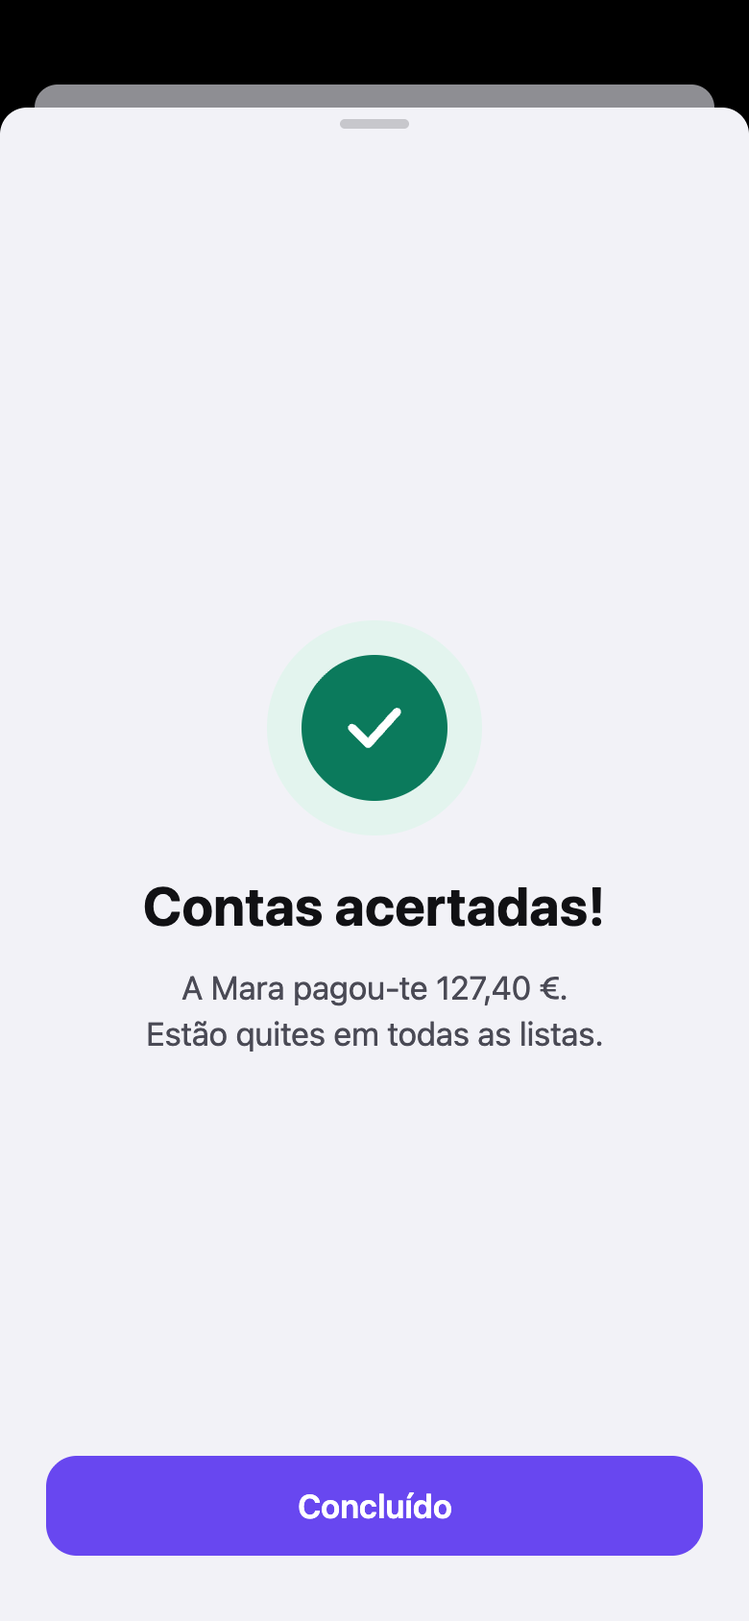
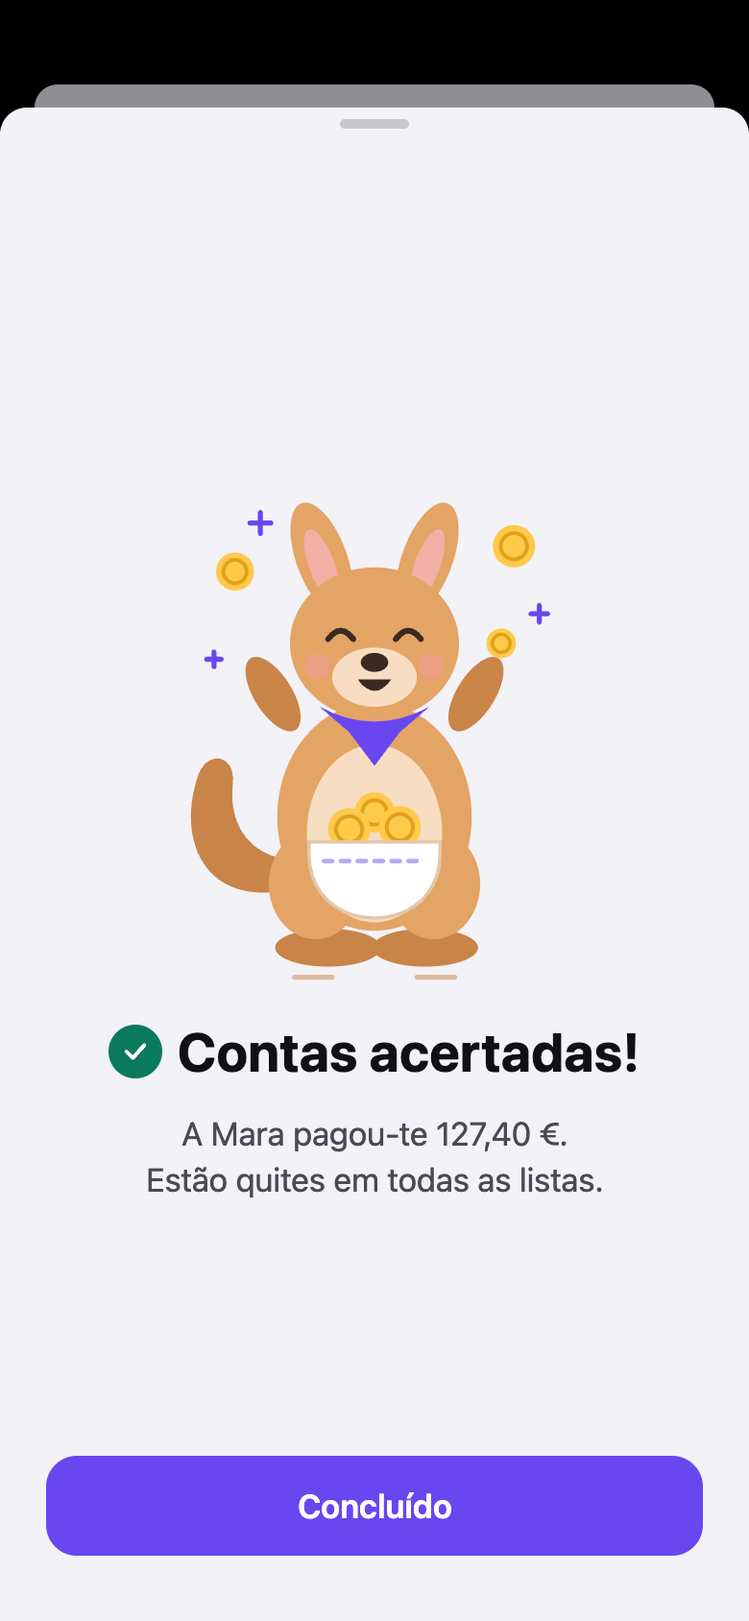
Update mockups with the Guru mascot

Changed region(s): [[0.1538, 0.3081, 0.8615, 0.7393], [0.2769, 0.3389, 0.3385, 0.3697]]

diff --git a/design/screens/Guru.dc.html b/design/screens/Guru.dc.html
@@ -1,0 +1,144 @@
+<!doctype html>
+<html lang="pt-PT">
+<head>
+<meta charset="utf-8">
+<title>Guru — mascote</title>
+<script src="./support.js"></script>
+</head>
+<body>
+<x-dc>
+<helmet>
+<style>
+body{margin:0}
+</style>
+</helmet>
+<div style="width: {{w}}; height: {{h}}; display: flex; align-items: center; justify-content: center; font-family: -apple-system, BlinkMacSystemFont, 'SF Pro Text', 'Helvetica Neue', sans-serif; color: #111114">
+  <svg width="{{w}}" height="{{h}}" viewBox="{{viewBox}}" role="img" aria-label="{{label}}">
+    <sc-if value="{{flying}}" hint-placeholder-val="{{ false }}">
+      <g>
+        <circle cx="34" cy="46" r="9" fill="#FFC94A"></circle><circle cx="34" cy="46" r="5.5" fill="none" stroke="#E0A21A" stroke-width="1.8"></circle>
+        <circle cx="166" cy="34" r="10" fill="#FFC94A"></circle><circle cx="166" cy="34" r="6.2" fill="none" stroke="#E0A21A" stroke-width="1.8"></circle>
+        <circle cx="160" cy="80" r="7" fill="#FFC94A"></circle><circle cx="160" cy="80" r="4.2" fill="none" stroke="#E0A21A" stroke-width="1.6"></circle>
+        <path d="M46 18v10M41 23h10M178 62v8M174 66h8M24 84v7M20.5 87.5h7" stroke="#6847F0" stroke-width="2.4" stroke-linecap="round"></path>
+      </g>
+    </sc-if>
+    <sc-if value="{{zzz}}" hint-placeholder-val="{{ false }}">
+      <g fill="#6847F0" font-family="-apple-system, sans-serif" font-weight="700">
+        <text x="146" y="44" font-size="18">z</text>
+        <text x="160" y="26" font-size="13">z</text>
+        <text x="171" y="12" font-size="10">z</text>
+      </g>
+    </sc-if>
+
+    <path d="M62 196C22 206 6 176 16 144C20 130 34 132 33 146C30 170 46 186 72 182Z" fill="{{c.furDark}}"></path>
+    <ellipse cx="78" cy="224" rx="25" ry="9" fill="{{c.furDark}}"></ellipse>
+    <ellipse cx="124" cy="224" rx="25" ry="9" fill="{{c.furDark}}"></ellipse>
+    <ellipse cx="72" cy="194" rx="22" ry="26" fill="{{c.fur}}"></ellipse>
+    <ellipse cx="128" cy="194" rx="22" ry="26" fill="{{c.fur}}"></ellipse>
+    <ellipse cx="100" cy="162" rx="46" ry="54" fill="{{c.fur}}"></ellipse>
+    <ellipse cx="100" cy="170" rx="32" ry="42" fill="{{c.belly}}"></ellipse>
+
+    <sc-if value="{{coins}}" hint-placeholder-val="{{ true }}">
+      <g>
+        <circle cx="100" cy="160" r="9.5" fill="#FFC94A"></circle><circle cx="100" cy="160" r="5.8" fill="none" stroke="#E0A21A" stroke-width="1.8"></circle>
+        <circle cx="88" cy="168" r="10" fill="#FFC94A"></circle><circle cx="88" cy="168" r="6.2" fill="none" stroke="#E0A21A" stroke-width="1.8"></circle>
+        <circle cx="112" cy="167" r="10" fill="#FFC94A"></circle><circle cx="112" cy="167" r="6.2" fill="none" stroke="#E0A21A" stroke-width="1.8"></circle>
+      </g>
+    </sc-if>
+    <path d="M69 174h62v6c0 18-13.5 30-31 30s-31-12-31-30z" fill="{{c.pouch}}" stroke="{{c.pouchEdge}}" stroke-width="1.6"></path>
+    <path d="M76 183h48" stroke="#B9A8F5" stroke-width="2.2" stroke-dasharray="4 4" stroke-linecap="round"></path>
+
+    <sc-if value="{{leftHold}}" hint-placeholder-val="{{ true }}">
+      <ellipse cx="68" cy="166" rx="9" ry="15" transform="rotate(-28 68 166)" fill="{{c.furDark}}"></ellipse>
+    </sc-if>
+    <sc-if value="{{leftUp}}" hint-placeholder-val="{{ false }}">
+      <ellipse cx="52" cy="104" rx="9" ry="20" transform="rotate(-32 52 104)" fill="{{c.furDark}}"></ellipse>
+    </sc-if>
+    <sc-if value="{{rightHold}}" hint-placeholder-val="{{ true }}">
+      <ellipse cx="132" cy="166" rx="9" ry="15" transform="rotate(28 132 166)" fill="{{c.furDark}}"></ellipse>
+    </sc-if>
+    <sc-if value="{{rightUp}}" hint-placeholder-val="{{ false }}">
+      <ellipse cx="148" cy="104" rx="9" ry="20" transform="rotate(32 148 104)" fill="{{c.furDark}}"></ellipse>
+    </sc-if>
+
+    <path d="M74 110Q100 124 126 110L112 122L100 138L88 122Z" fill="#6847F0"></path>
+
+    <g transform="{{headTilt}}">
+      <ellipse cx="75" cy="40" rx="12" ry="28" transform="rotate(-20 75 40)" fill="{{c.fur}}"></ellipse>
+      <ellipse cx="75" cy="43" rx="6" ry="18" transform="rotate(-20 75 43)" fill="{{c.earInner}}"></ellipse>
+      <ellipse cx="125" cy="40" rx="12" ry="28" transform="rotate(20 125 40)" fill="{{c.fur}}"></ellipse>
+      <ellipse cx="125" cy="43" rx="6" ry="18" transform="rotate(20 125 43)" fill="{{c.earInner}}"></ellipse>
+      <ellipse cx="100" cy="80" rx="40" ry="36" fill="{{c.fur}}"></ellipse>
+      <ellipse cx="100" cy="96" rx="20" ry="14" fill="{{c.belly}}"></ellipse>
+      <circle cx="73" cy="91" r="6" fill="#F49C9C" opacity="0.55"></circle>
+      <circle cx="127" cy="91" r="6" fill="#F49C9C" opacity="0.55"></circle>
+      <ellipse cx="100" cy="89" rx="6.5" ry="4.5" fill="#3A2A22"></ellipse>
+
+      <sc-if value="{{eyesOpen}}" hint-placeholder-val="{{ true }}">
+        <g>
+          <circle cx="84" cy="{{pupilY}}" r="5.5" fill="#3A2A22"></circle>
+          <circle cx="116" cy="{{pupilY}}" r="5.5" fill="#3A2A22"></circle>
+          <circle cx="86" cy="{{glintY}}" r="1.8" fill="#FFFFFF"></circle>
+          <circle cx="118" cy="{{glintY}}" r="1.8" fill="#FFFFFF"></circle>
+        </g>
+      </sc-if>
+      <sc-if value="{{eyesHappy}}" hint-placeholder-val="{{ false }}">
+        <path d="M78 78Q84 70 90 78M110 78Q116 70 122 78" stroke="#3A2A22" stroke-width="2.8" stroke-linecap="round" fill="none"></path>
+      </sc-if>
+      <sc-if value="{{eyesClosed}}" hint-placeholder-val="{{ false }}">
+        <path d="M78 76Q84 82 90 76M110 76Q116 82 122 76" stroke="#3A2A22" stroke-width="2.6" stroke-linecap="round" fill="none"></path>
+      </sc-if>
+
+      <sc-if value="{{smile}}" hint-placeholder-val="{{ true }}">
+        <path d="M93 98Q100 105 107 98" stroke="#3A2A22" stroke-width="2.2" stroke-linecap="round" fill="none"></path>
+      </sc-if>
+      <sc-if value="{{bigSmile}}" hint-placeholder-val="{{ false }}">
+        <path d="M92 97Q100 108 108 97Z" fill="#3A2A22"></path>
+      </sc-if>
+      <sc-if value="{{oMouth}}" hint-placeholder-val="{{ false }}">
+        <ellipse cx="100" cy="100" rx="3" ry="3.6" fill="#3A2A22"></ellipse>
+      </sc-if>
+    </g>
+
+    <sc-if value="{{jump}}" hint-placeholder-val="{{ false }}">
+      <path d="M62 238h18M120 238h18" stroke="{{c.furDark}}" stroke-width="2.4" stroke-linecap="round" opacity="0.5"></path>
+    </sc-if>
+  </svg>
+</div>
+</x-dc>
+<script type="text/x-dc" data-dc-script data-props='{"pose":{"editor":"enum","options":["normal","ola","vazio","sucesso","dormir"],"default":"normal"},"size":{"editor":"int","min":40,"max":800,"default":200},"crop":{"editor":"boolean","default":false},"$preview":{"width":200,"height":240}}'>
+class Component extends DCLogic {
+  renderVals() {
+    const pose = this.props.pose ?? 'normal';
+    const size = Number(this.props.size ?? 200);
+    const crop = !!this.props.crop;
+    const c = {
+      fur: '#E3A465', furDark: '#C98448', belly: '#F7DEC2', earInner: '#F2AFA6',
+      pouch: '#FFFFFF', pouchEdge: '#E3C7AB'
+    };
+    const P = {
+      normal:  { label: 'Guru, o canguru, com moedas na bolsa', coins: true,  left: 'hold', right: 'hold', eyes: 'open', mouth: 'smile' },
+      ola:     { label: 'Guru a acenar',                       coins: true,  left: 'hold', right: 'up',   eyes: 'open', mouth: 'big' },
+      vazio:   { label: 'Guru a espreitar a bolsa vazia',      coins: false, left: 'hold', right: 'hold', eyes: 'down', mouth: 'o', tilt: true },
+      sucesso: { label: 'Guru a saltar de alegria',            coins: true,  left: 'up',   right: 'up',   eyes: 'happy', mouth: 'big', flying: true, jump: true },
+      dormir:  { label: 'Guru a dormir',                       coins: true,  left: 'hold', right: 'hold', eyes: 'closed', mouth: 'smile', zzz: true, tilt: true }
+    }[pose] || {};
+    const viewBox = crop ? '46 6 108 116' : '0 0 200 240';
+    const w = size;
+    const h = crop ? Math.round(size * 116 / 108) : Math.round(size * 1.2);
+    return {
+      c, w: w + 'px', h: h + 'px', viewBox, label: P.label,
+      coins: !!P.coins, flying: !!P.flying, zzz: !!P.zzz, jump: !!P.jump,
+      leftHold: P.left === 'hold', leftUp: P.left === 'up',
+      rightHold: P.right === 'hold', rightUp: P.right === 'up',
+      eyesOpen: P.eyes === 'open' || P.eyes === 'down',
+      eyesHappy: P.eyes === 'happy', eyesClosed: P.eyes === 'closed',
+      pupilY: P.eyes === 'down' ? 80 : 76, glintY: P.eyes === 'down' ? 78 : 74,
+      smile: P.mouth === 'smile', bigSmile: P.mouth === 'big', oMouth: P.mouth === 'o',
+      headTilt: P.tilt ? 'rotate(-6 100 80)' : ''
+    };
+  }
+}
+</script>
+</body>
+</html>

diff --git a/design/screens/Mascote.dc.html b/design/screens/Mascote.dc.html
@@ -1,0 +1,96 @@
+<!doctype html>
+<html lang="pt-PT">
+<head>
+<meta charset="utf-8">
+<title>Mascote — Guru</title>
+<script src="./support.js"></script>
+</head>
+<body>
+<x-dc>
+<helmet>
+<style>
+body{margin:0}
+</style>
+</helmet>
+<div style="width: 1280px; height: 1000px; box-sizing: border-box; padding: 56px; background: #F7F7FA; color: #111114; font-family: -apple-system, BlinkMacSystemFont, 'SF Pro Text', 'Helvetica Neue', sans-serif; display: flex; flex-direction: column; gap: 28px">
+  <div style="display: flex; align-items: baseline; gap: 16px">
+    <h1 style="margin: 0; font-size: 40px; font-weight: 700; letter-spacing: -0.5px">Guru</h1>
+    <span style="font-size: 20px; color: #6B6B76">A mascote do KangarooSplit</span>
+  </div>
+
+  <div style="display: flex; gap: 48px; align-items: flex-start">
+    <div style="width: 440px; flex: none; display: flex; flex-direction: column; gap: 22px">
+      <div style="width: 440px; height: 460px; border-radius: 40px; background: #EFEAFE; display: flex; align-items: flex-end; justify-content: center; padding-bottom: 24px; box-sizing: border-box; position: relative; overflow: hidden">
+        <div aria-hidden="true" style="position: absolute; left: 70px; top: 50px; width: 300px; height: 300px; border-radius: 150px; background: #E2D9FD"></div>
+        <div style="position: relative">
+          <dc-import name="Guru" pose="normal" size="{{ 330 }}" hint-size="330px,396px"></dc-import>
+        </div>
+      </div>
+      <div style="display: flex; flex-direction: column; gap: 10px">
+        <p style="margin: 0; font-size: 22px; font-weight: 700">O canguru que guarda as contas dos dois.</p>
+        <p style="margin: 0; font-size: 16px; line-height: 23px; color: #4A4A55">O nome vem de “canGURU”. Na bolsa guarda as moedas da casa, a mesma bolsa e a mesma moeda do ícone. Aparece só em momentos especiais: estados vazios, sucesso, sem ligação e boas-vindas. Nunca nos ecrãs de trabalho.</p>
+        <div style="display: flex; gap: 8px; flex-wrap: wrap; margin-top: 4px">
+          <sc-for list="{{swatches}}" as="s" hint-placeholder-count="5">
+            <span style="display: flex; align-items: center; gap: 6px; font-size: 12px; color: #6B6B76; font-family: ui-monospace, Menlo, monospace">
+              <span style="width: 18px; height: 18px; border-radius: 6px; background: {{s.hex}}; box-shadow: inset 0 0 0 1px rgba(0,0,0,0.08)"></span>{{s.hex}}
+            </span>
+          </sc-for>
+        </div>
+      </div>
+    </div>
+
+    <div style="flex: 1; min-width: 0; display: flex; flex-direction: column; gap: 16px">
+      <div style="display: grid; grid-template-columns: repeat(2, minmax(0, 1fr)); gap: 16px">
+        <sc-for list="{{poses}}" as="p" hint-placeholder-count="4">
+          <div style="border-radius: 28px; background: #FFFFFF; padding: 18px 20px 20px; display: flex; flex-direction: column; align-items: center; gap: 10px">
+            <div style="height: 204px; display: flex; align-items: flex-end">
+              <dc-import name="Guru" pose="{{p.pose}}" size="{{ 170 }}" hint-size="170px,204px"></dc-import>
+            </div>
+            <span style="font-size: 17px; font-weight: 600">{{p.title}}</span>
+            <span style="font-size: 13px; line-height: 18px; color: #6B6B76; text-align: center">{{p.use}}</span>
+          </div>
+        </sc-for>
+      </div>
+
+      <div style="border-radius: 28px; background: #1C1C1E; color: #F5F5F7; padding: 18px 24px; display: flex; align-items: center; gap: 28px">
+        <dc-import name="Guru" pose="vazio" size="{{ 110 }}" hint-size="110px,132px"></dc-import>
+        <div style="flex: 1; display: flex; flex-direction: column; gap: 4px">
+          <span style="font-size: 17px; font-weight: 600">Funciona no modo escuro</span>
+          <span style="font-size: 13px; line-height: 18px; color: #A1A1AA">As cores são as mesmas nos dois modos. O pelo quente contrasta com o fundo preto.</span>
+        </div>
+        <div style="display: flex; align-items: flex-end; gap: 14px">
+          <sc-for list="{{avatars}}" as="a" hint-placeholder-count="3">
+            <div style="display: flex; flex-direction: column; align-items: center; gap: 6px">
+              <span style="width: {{a.px}}; height: {{a.px}}; border-radius: 50%; background: #6847F0; overflow: hidden; display: flex; align-items: flex-end; justify-content: center">
+                <dc-import name="Guru" pose="normal" crop="{{ true }}" size="{{a.inner}}" hint-size="{{a.hint}}"></dc-import>
+              </span>
+              <span style="font-size: 11px; color: #A1A1AA">{{a.label}}</span>
+            </div>
+          </sc-for>
+        </div>
+      </div>
+    </div>
+  </div>
+</div>
+</x-dc>
+<script type="text/x-dc" data-dc-script data-props='{"$preview":{"width":1280,"height":1000}}'>
+class Component extends DCLogic {
+  renderVals() {
+    const poses = [
+      { pose: 'vazio', title: 'Bolsa vazia', use: 'Lista nova e recorrentes vazias: “Ainda não há despesas nesta lista.”' },
+      { pose: 'sucesso', title: 'Contas acertadas!', use: 'Ecrã de sucesso depois de acertar contas.' },
+      { pose: 'ola', title: 'Olá!', use: 'Iniciar sessão, instalar a aplicação e ativar notificações.' },
+      { pose: 'dormir', title: 'A descansar', use: 'Sem ligação, e meses sem despesas nas estatísticas.' }
+    ];
+    const avatars = [
+      { px: '72px', inner: 64, hint: '64px,69px', label: '72' },
+      { px: '48px', inner: 42, hint: '42px,45px', label: '48' },
+      { px: '32px', inner: 28, hint: '28px,30px', label: '32' }
+    ];
+    const swatches = ['#E3A465', '#C98448', '#F7DEC2', '#FFC94A', '#6847F0'].map((hex) => ({ hex }));
+    return { poses, avatars, swatches };
+  }
+}
+</script>
+</body>
+</html>

diff --git a/design/screens/Notificacoes.dc.html b/design/screens/Notificacoes.dc.html
@@ -16,9 +16,11 @@ body{margin:0}
   <dc-import name="Main" hint-size="390px,844px"></dc-import>
   <div aria-hidden="true" style="position: absolute; inset: 0; background: rgba(0,0,0,0.38)"></div>
   <div role="dialog" aria-labelledby="notif-title" style="position: absolute; left: 8px; right: 8px; bottom: 8px; border-radius: 32px; background: #FFFFFF; padding: 28px 22px 22px; display: flex; flex-direction: column; align-items: center; gap: 12px; text-align: center">
-    <div style="width: 72px; height: 72px; border-radius: 36px; background: #EFEAFE; color: #5B3FD9; display: flex; align-items: center; justify-content: center; position: relative">
-      <svg width="34" height="34" viewBox="0 0 24 24" fill="none" stroke="currentColor" stroke-width="1.9" stroke-linecap="round" stroke-linejoin="round" aria-hidden="true"><path d="M6 8a6 6 0 0 1 12 0c0 7 3 9 3 9H3s3-2 3-9M10.3 21a1.94 1.94 0 0 0 3.4 0"></path></svg>
-      <span style="position: absolute; right: 2px; top: 2px; width: 24px; height: 24px; border-radius: 12px; background: #C0367A; border: 3px solid #FFFFFF; color: #FFFFFF; font-size: 9px; font-weight: 700; display: flex; align-items: center; justify-content: center; box-sizing: border-box">Ma</span>
+    <div style="width: 150px; height: 160px; position: relative; display: flex; align-items: flex-end; justify-content: center; margin-top: -8px">
+      <dc-import name="Guru" pose="ola" size="{{ 132 }}" hint-size="132px,158px"></dc-import>
+      <span style="position: absolute; right: 2px; top: 18px; width: 40px; height: 40px; border-radius: 20px; background: #6847F0; border: 3px solid #FFFFFF; color: #FFFFFF; display: flex; align-items: center; justify-content: center; box-sizing: border-box">
+        <svg width="20" height="20" viewBox="0 0 24 24" fill="none" stroke="currentColor" stroke-width="2.2" stroke-linecap="round" stroke-linejoin="round" aria-hidden="true"><path d="M6 8a6 6 0 0 1 12 0c0 7 3 9 3 9H3s3-2 3-9M10.3 21a1.94 1.94 0 0 0 3.4 0"></path></svg>
+      </span>
     </div>
     <h2 id="notif-title" style="margin: 4px 0 0; font-size: 22px; font-weight: 700">Ativar notificações</h2>
     <p style="margin: 0; font-size: 17px; line-height: 23px; color: #4A4A55; max-width: 300px">Recebe um aviso quando a Mara adicionar ou alterar uma despesa.</p>

diff --git a/design/screens/Acerto.dc.html b/design/screens/Acerto.dc.html
@@ -83,12 +83,13 @@ body{margin:0}
     <sc-if value="{{success}}" hint-placeholder-val="{{ false }}">
       <div style="flex: 1; padding: 0 24px 34px; display: flex; flex-direction: column; align-items: center; text-align: center">
         <div style="flex: 1; display: flex; flex-direction: column; align-items: center; justify-content: center; gap: 14px">
-          <div style="width: 112px; height: 112px; border-radius: 56px; background: #E3F4EE; display: flex; align-items: center; justify-content: center">
-            <div style="width: 76px; height: 76px; border-radius: 38px; background: #0B7A5C; color: #FFFFFF; display: flex; align-items: center; justify-content: center">
-              <svg width="40" height="40" viewBox="0 0 24 24" fill="none" stroke="currentColor" stroke-width="2.6" stroke-linecap="round" stroke-linejoin="round" aria-hidden="true"><path d="m5 12 5 5 9-10"></path></svg>
-            </div>
-          </div>
-          <p style="margin: 6px 0 0; font-size: 28px; font-weight: 700">Contas acertadas!</p>
+          <dc-import name="Guru" pose="sucesso" size="{{ 220 }}" hint-size="220px,264px"></dc-import>
+          <p style="margin: 6px 0 0; font-size: 28px; font-weight: 700; display: flex; align-items: center; gap: 8px">
+            <span style="width: 28px; height: 28px; border-radius: 14px; background: #0B7A5C; color: #FFFFFF; display: flex; align-items: center; justify-content: center">
+              <svg width="16" height="16" viewBox="0 0 24 24" fill="none" stroke="currentColor" stroke-width="3" stroke-linecap="round" stroke-linejoin="round" aria-hidden="true"><path d="m5 12 5 5 9-10"></path></svg>
+            </span>
+            Contas acertadas!
+          </p>
           <p style="margin: 0; font-size: 17px; color: #4A4A55; line-height: 24px">A Mara pagou-te 127,40 €.<br>Estão quites em todas as listas.</p>
         </div>
         <button type="button" style="width: 100%; height: 52px; border: 0; border-radius: 16px; background: #6847F0; color: #FFFFFF; font: inherit; font-size: 17px; font-weight: 600; cursor: pointer">Concluído</button>

diff --git a/design/screens/Login.dc.html b/design/screens/Login.dc.html
@@ -13,9 +13,11 @@ body{margin:0}
 </style>
 </helmet>
 <div style="width: 390px; height: 844px; position: relative; overflow: hidden; background: #F2F2F7; color: #111114; font-family: -apple-system, BlinkMacSystemFont, 'SF Pro Text', 'Helvetica Neue', sans-serif">
-  <div style="position: absolute; inset: 0; padding: 110px 24px 34px; box-sizing: border-box; display: flex; flex-direction: column; gap: 28px">
-    <div style="display: flex; flex-direction: column; align-items: center; gap: 14px">
-      <svg width="96" height="96" viewBox="0 0 100 100" role="img" aria-label="Ícone KangarooSplit" style="border-radius: 22px; box-shadow: 0 10px 30px rgba(104,71,240,0.28)">
+  <div style="position: absolute; inset: 0; padding: 70px 24px 34px; box-sizing: border-box; display: flex; flex-direction: column; gap: 24px">
+    <div style="display: flex; flex-direction: column; align-items: center; gap: 10px">
+      <dc-import name="Guru" pose="ola" size="{{ 150 }}" hint-size="150px,180px"></dc-import>
+      <div style="display: flex; align-items: center; gap: 10px">
+      <svg width="40" height="40" viewBox="0 0 100 100" role="img" aria-label="Ícone KangarooSplit" style="border-radius: 10px">
         <rect width="100" height="100" rx="22" fill="#6847F0"></rect>
         <circle cx="50" cy="36" r="15" fill="#FFC94A"></circle>
         <circle cx="50" cy="36" r="10.5" fill="none" stroke="#E0A21A" stroke-width="2"></circle>
@@ -23,6 +25,7 @@ body{margin:0}
         <path d="M28 54h44" stroke="#C9BCFB" stroke-width="2.4" stroke-dasharray="4 4" stroke-linecap="round"></path>
       </svg>
       <span style="font-size: 28px; font-weight: 700; letter-spacing: -0.2px">KangarooSplit</span>
+      </div>
     </div>
 
     <form style="display: flex; flex-direction: column; gap: 14px" aria-labelledby="login-title">

diff --git a/design/screens/Lista.dc.html b/design/screens/Lista.dc.html
@@ -80,12 +80,7 @@ body{margin:0}
 
     <sc-if value="{{d.empty}}" hint-placeholder-val="{{ false }}">
       <div style="flex: 1; display: flex; flex-direction: column; align-items: center; justify-content: center; gap: 12px; text-align: center; padding: 0 24px 40px">
-        <svg width="132" height="116" viewBox="0 0 132 116" aria-hidden="true">
-          <circle cx="66" cy="36" r="22" fill="{{c.coin}}" stroke="{{c.accent}}" stroke-width="2.5"></circle>
-          <text x="66" y="44" text-anchor="middle" font-size="22" font-weight="700" fill="{{c.accent}}" font-family="-apple-system, sans-serif">€</text>
-          <path d="M18 54h96v12c0 26.5-21.5 44-48 44S18 92.5 18 66z" fill="{{c.pouch}}" stroke="{{c.accent}}" stroke-width="2.5" stroke-linejoin="round"></path>
-          <path d="M28 64h76" stroke="{{c.accent}}" stroke-width="2" stroke-dasharray="5 5" stroke-linecap="round" opacity="0.6"></path>
-        </svg>
+        <dc-import name="Guru" pose="vazio" size="{{ 150 }}" hint-size="150px,180px"></dc-import>
         <p style="margin: 0; font-size: 17px; font-weight: 600">Ainda não há despesas nesta lista.</p>
         <a href="Despesa.dc.html" style="height: 48px; padding: 0 20px; border-radius: 14px; background: {{c.accent}}; color: #FFFFFF; font-size: 17px; font-weight: 600; display: flex; align-items: center; gap: 8px; text-decoration: none">
           <svg width="20" height="20" viewBox="0 0 24 24" fill="none" stroke="currentColor" stroke-width="2.4" stroke-linecap="round" aria-hidden="true"><path d="M12 5v14M5 12h14"></path></svg>

diff --git a/design/screens/Main.dc.html b/design/screens/Main.dc.html
@@ -17,8 +17,10 @@ body{margin:0}
   <div style="position: absolute; inset: 0; overflow: hidden; padding: 54px 16px 120px; box-sizing: border-box; display: flex; flex-direction: column; gap: 16px">
 
     <sc-if value="{{offline}}" hint-placeholder-val="{{ false }}">
-      <div role="status" style="display: flex; align-items: center; gap: 10px; padding: 10px 14px; border-radius: 14px; background: {{c.warnSoft}}; color: {{c.warnText}}; font-size: 15px; font-weight: 500">
-        <svg width="20" height="20" viewBox="0 0 24 24" fill="none" stroke="currentColor" stroke-width="2" stroke-linecap="round" stroke-linejoin="round" aria-hidden="true"><path d="M2 8.8a15 15 0 0 1 4.2-2.6M22 8.8A15 15 0 0 0 10.5 5.1M5 12.6a10 10 0 0 1 5.2-2.6M19 12.6a10 10 0 0 0-2.3-1.6M8.5 16.4a5 5 0 0 1 7 0M12 20h.01M3 3l18 18"></path></svg>
+      <div role="status" style="display: flex; align-items: center; gap: 10px; padding: 6px 14px 6px 8px; border-radius: 14px; background: {{c.warnSoft}}; color: {{c.warnText}}; font-size: 15px; font-weight: 500">
+        <span aria-hidden="true" style="width: 40px; height: 40px; border-radius: 20px; background: #FFFFFF; overflow: hidden; display: flex; align-items: flex-end; justify-content: center; flex: none">
+          <dc-import name="Guru" pose="dormir" crop="{{ true }}" size="{{ 36 }}" hint-size="36px,39px"></dc-import>
+        </span>
         <span>Sem ligação. Só podes consultar.</span>
       </div>
     </sc-if>

diff --git a/design/screens/Recorrentes.dc.html b/design/screens/Recorrentes.dc.html
@@ -29,9 +29,7 @@ body{margin:0}
 
     <sc-if value="{{empty}}" hint-placeholder-val="{{ false }}">
       <div style="flex: 1; display: flex; flex-direction: column; align-items: center; justify-content: center; gap: 14px; text-align: center; padding-bottom: 60px">
-        <div style="width: 104px; height: 104px; border-radius: 52px; background: #EFEAFE; display: flex; align-items: center; justify-content: center; color: #6847F0">
-          <svg width="48" height="48" viewBox="0 0 24 24" fill="none" stroke="currentColor" stroke-width="1.8" stroke-linecap="round" stroke-linejoin="round" aria-hidden="true"><path d="M17 2l4 4-4 4M3 11V9a3 3 0 0 1 3-3h15M7 22l-4-4 4-4M21 13v2a3 3 0 0 1-3 3H3"></path></svg>
-        </div>
+        <dc-import name="Guru" pose="vazio" size="{{ 150 }}" hint-size="150px,180px"></dc-import>
         <p style="margin: 0; font-size: 17px; font-weight: 600">Ainda não tens despesas recorrentes.</p>
         <p style="margin: 0; font-size: 15px; color: #6B6B76; max-width: 280px; line-height: 21px">A renda, as contas e as subscrições são criadas automaticamente na data certa.</p>
         <a href="DespesaRecorrente.dc.html" style="height: 48px; padding: 0 20px; border-radius: 14px; background: #6847F0; color: #FFFFFF; font-size: 17px; font-weight: 600; display: flex; align-items: center; text-decoration: none">Nova despesa recorrente</a>

diff --git a/design/README.md b/design/README.md
@@ -36,6 +36,7 @@ Several files are small wrappers that show a variant of a main file. The variant
 | 10 Definições | `Definicoes.dc.html` | — (includes the profile photo upload) |
 | 11 System states | `Notificacoes`, `Instalar`, `ConfirmarApagar` (iOS action sheet), `Toast` | offline and loading: see Início |
 | Shared | `TabBar.dc.html` (tab bar + raised "+"), `Componentes.dc.html` (component sheet), `Icone.dc.html` (app icon) | |
+| Mascot | `Guru.dc.html` (the mascot component, prop `pose` = `normal` / `ola` / `vazio` / `sucesso` / `dormir`, prop `crop` for a head-only avatar), `Mascote.dc.html` (mascot sheet) | |
 
 ## Decisions (these override DESIGN_BRIEF.md)
 
@@ -63,6 +64,24 @@ Several files are small wrappers that show a variant of a main file. The variant
 
 ### Statistics
 - The six-month trend is a small bar chart inside the "Total do mês" card. The category breakdown is a stacked bar and a ranked list. Category colours are fixed (`--ks-cat-1…6` in `tokens.css`) and must not change when a filter changes.
+
+## Mascot — Guru
+
+Guru is a kangaroo with a pouch full of coins. The name comes from "canGURU". The pouch and coins match the app icon.
+
+- Build it as one React component, `<Guru pose="..." size={...} crop? />`, from the inline SVG in `screens/Guru.dc.html`. Keep it as inline SVG (no image files), so it stays sharp at all sizes.
+- Each `<sc-if>` in that file shows or hides one part of the drawing (arms, eyes, mouth, coins, "zzz"). `renderVals()` lists which parts each pose uses.
+- The colours are fixed and the same in light and dark mode: fur `#E3A465`, darker fur `#C98448`, belly `#F7DEC2`, coins `#FFC94A`, bandana = accent `#6847F0`.
+- Give the SVG a pt-PT `aria-label` (the labels are in `renderVals()`), or `aria-hidden="true"` when it is only decoration next to text.
+- Use Guru only in these places. Never use it on work screens (lists, forms, statistics):
+
+| Pose | Where | Screen file |
+|---|---|---|
+| `vazio` | Empty list, empty recurring expenses | `Lista.dc.html` (`variant="vazia"`), `Recorrentes.dc.html` (`empty`) |
+| `sucesso` | "Contas acertadas!" after a settlement | `Acerto.dc.html` (`variant="sucesso"`) |
+| `ola` | Login, "Ativar notificações" prompt | `Login.dc.html`, `Notificacoes.dc.html` |
+| `dormir` (`crop`) | Offline banner | `Main.dc.html` (`offline`) |
+| `dormir` | Month with no expenses in Estatísticas (not drawn) | — |
 
 ## Not shown in the mockups
 
